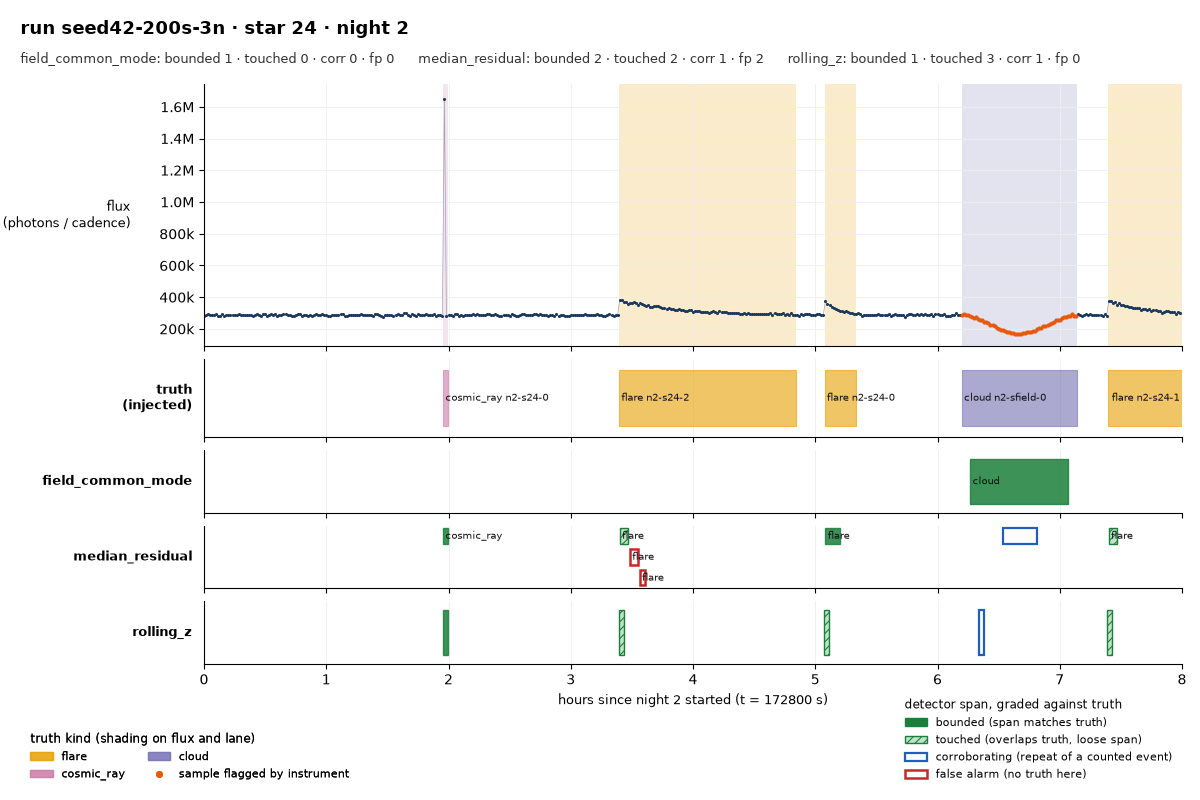
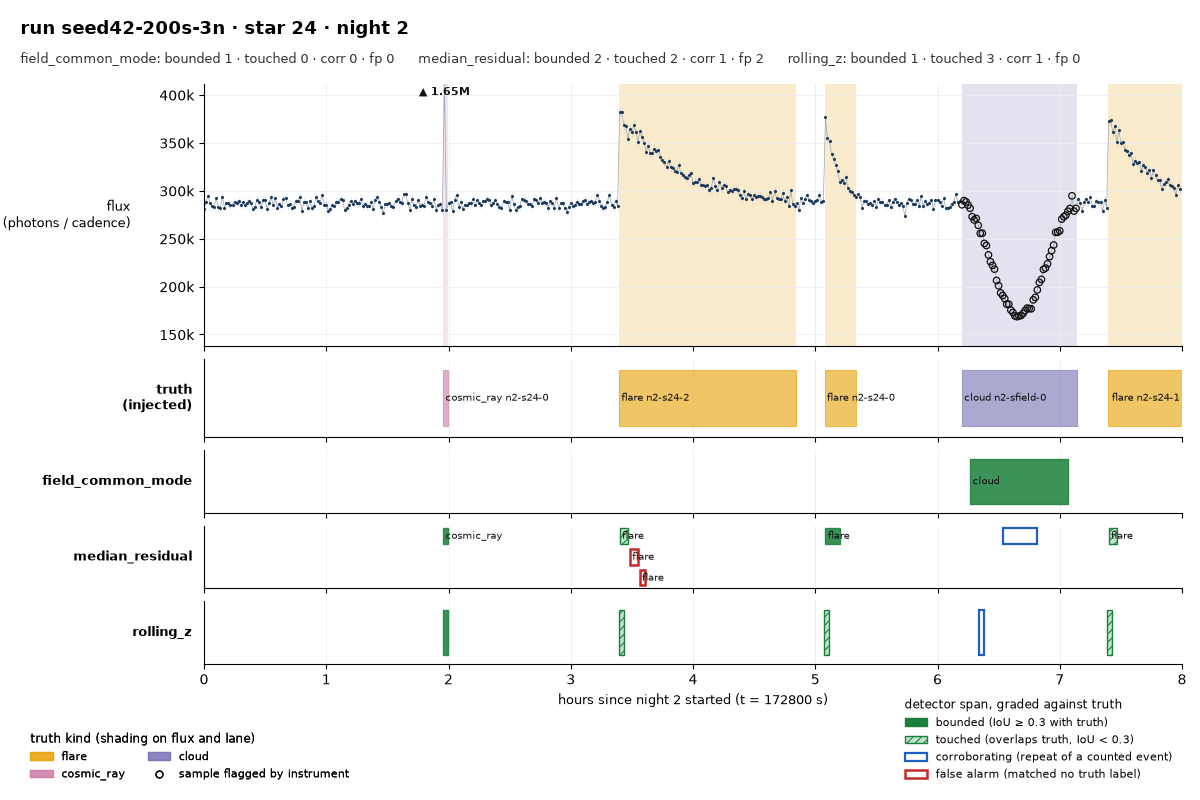
docs: re-render the three night views with the robust flux axis and corrected legend

diff --git a/tests/test_view_render.py b/tests/test_view_render.py
@@ -185,11 +185,8 @@ def test_unknown_kind_falls_back_to_grey(scored, tmp_path):
     data = view.assemble_view(scored, 1, 0)
     odd = view.ViewTruth("nova-n0-s1-0", "nova", "science", 1, 1000, 2000, True)
     data = replace(data, truth=(*data.truth, odd))
-    out = view.render_view(data, tmp_path / "odd.png")
-    assert out.stat().st_size > 0
-    assert "nova" in _legend_texts(_figure(data)) + [
-        t.get_text() for t in _figure(data).axes[1].texts
-    ]
+    assert view.render_view(data, tmp_path / "odd.png").stat().st_size > 0
+    assert "nova" in _legend_texts(_figure(data))
     assert view._kind_color("nova") == view.FALLBACK_KIND_COLOR
 
 
@@ -268,3 +265,15 @@ def test_flagged_samples_are_drawn_with_the_flag_colour():
     from matplotlib.colors import to_rgba
 
     assert edges == [to_rgba(view.FLAG_COLOR)]
+
+
+def test_annotation_values_are_short():
+    assert [view._value_label(v) for v in (995327.4, 1.0e6, 1.6e6, 91752.5, -5000, 950, 12.34)] == [
+        "995k",
+        "1M",
+        "1.6M",
+        "91.8k",
+        "-5k",
+        "950",
+        "12.3",
+    ]

diff --git a/skywatch/view.py b/skywatch/view.py
@@ -390,7 +390,7 @@ def _annotate_clipped(ax: Axes, t: np.ndarray, flux: np.ndarray, lo: float, hi: 
             ax.text(
                 x,
                 ypos,
-                f"{glyph} {_flux_tick(float(flux[worst]), 0)}",
+                f"{glyph} {_value_label(float(flux[worst]))}",
                 transform=trans,
                 ha=ha,
                 va=va,
@@ -400,6 +400,14 @@ def _annotate_clipped(ax: Axes, t: np.ndarray, flux: np.ndarray, lo: float, hi: 
                 zorder=4,
                 clip_on=False,
             )
+
+
+def _value_label(value: float) -> str:
+    """A true value for an annotation, three significant figures: 995327 -> 995k."""
+    for scale, unit in ((1e6, "M"), (1e3, "k")):
+        if abs(value) >= scale * 0.9995:
+            return f"{value / scale:.3g}{unit}"
+    return f"{value:.3g}"
 
 
 def _flux_tick(value: float, _pos: int) -> str:
